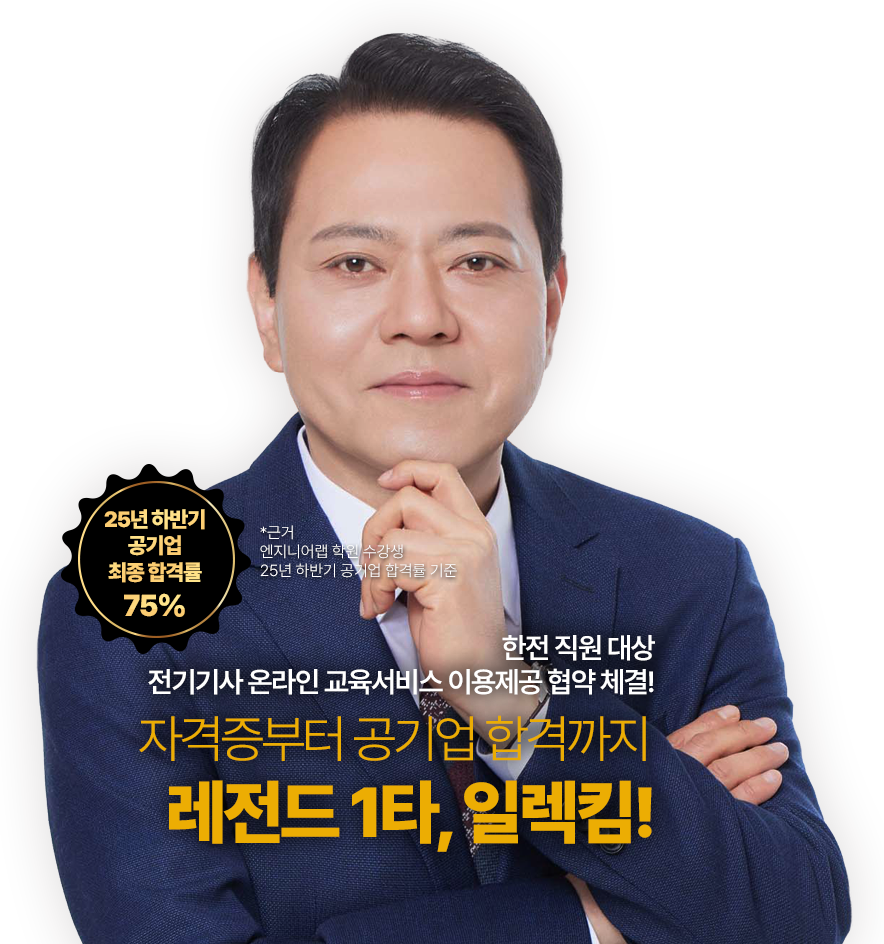
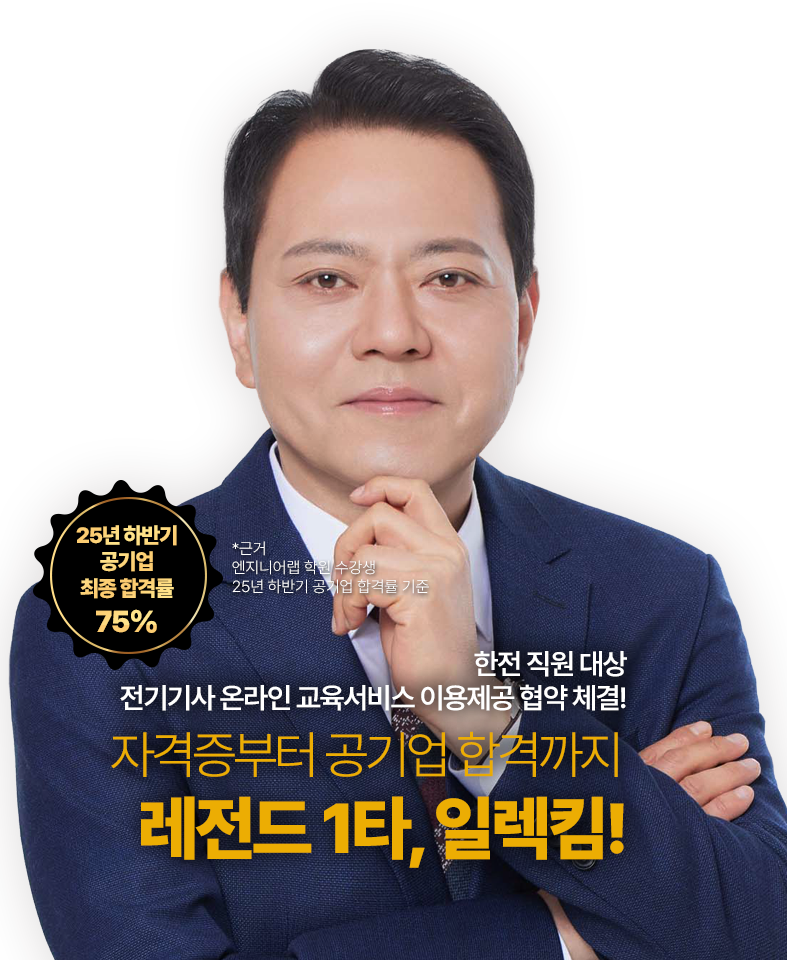
김상훈 교수 프로필 사진 비율 수정 (좌우 눌림 현상 해결)
기존 884x944(비율 0.94)로 다른 교수님 사진들(0.79~0.86)보다
유독 가로로 넓게 들어가 있던 문제를 발견. 엔지니어랩 공식
사이트 원본(prof_main.png, 1440x960)에서 왜곡 없이 다시
크롭(787x960, 비율 0.82)해 교체.

diff --git a/professor-kim.html b/professor-kim.html
@@ -181,7 +181,7 @@ a { color: inherit; }
       </ul>
       <div class="prof-coupon-banner"><i class="ti ti-gift"></i> 파트너스 코드 <strong>e4941</strong> 입력 시 총 <strong>6만원</strong> 할인</div>
     </div>
-    <img class="prof-card-photo" src="img/prof-kim.png" alt="김상훈 교수" width="884" height="944">
+    <img class="prof-card-photo" src="img/prof-kim.png" alt="김상훈 교수" width="787" height="960">
     <div class="prof-card-btns">
       <a href="https://www.engineerlab.co.kr/ee/professor/professor_info_new.php?p_id=31" target="_blank" rel="noopener" class="prof-homebtn">교수홈 가기 <i class="ti ti-external-link"></i></a>
       <a href="pricing.html" class="prof-passbtn">패스 보기 <i class="ti ti-arrow-right"></i></a>
